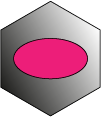
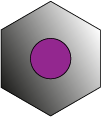
method in Player check if the lowest color is present

diff --git a/core/src/Screens/GameScreen.java b/core/src/Screens/GameScreen.java
@@ -83,6 +83,7 @@ public class GameScreen extends AbstractScreen implements GameHandler {
         tileView = new Group[players.length][];
         gamingPlayer = players[0];
 
+
     }
 
 
@@ -96,6 +97,7 @@ public class GameScreen extends AbstractScreen implements GameHandler {
         Stage stage  = new Stage();
         // ...
         updateBoard();
+
         updateHand();
 
 
@@ -198,11 +200,7 @@ public class GameScreen extends AbstractScreen implements GameHandler {
                 //get one of the six couple of sprites
                 Sprite[] oneOfSix = playerP.getGamePieces().get(i);
 
-                // Check if hand has any tiles of lowest color:
-                if (!Player.isLowestScoreTilePresent(playerP)){
-                    // add button to give new hand here
-                    System.out.println("change hand - no lowest score present");
-                }
+
 
                 //override call for each grid
                 tiles[i].getHexagons().forEach(new Action1<Hexagon<Link>>() {
@@ -222,7 +220,6 @@ public class GameScreen extends AbstractScreen implements GameHandler {
                         //and pass everything in tileGroup
                         tileGroup.addActor(hexTile);
                         hexagon.setSatelliteData(new Link(hexTile));
-
 
                         /*
                         Create a click listener for the tiles in your hand: --------------------------
@@ -290,7 +287,7 @@ public class GameScreen extends AbstractScreen implements GameHandler {
 
         // Create a HexagonActor for each Hexagon and attach it to the group
         this.hexagonView = new Group();
-
+      //  this.gbv = new GameBoardView();
         grid.getHexagons().forEach(new Action1<Hexagon<Link>>() {
             @Override
             public void call(Hexagon hexagon) {
@@ -378,19 +375,28 @@ public class GameScreen extends AbstractScreen implements GameHandler {
                                         ind++;
                                     }
                                 }
-
+                                ///////////////////////////////score update
                                 gamingPlayer.printScore();
-                                selectedTile.moveBy(0, -30);
 
+                                //little work around blips and bloops @Michael
+//                                if (gamingPlayer == players[0]) {
+                                   // selectedTile.moveBy(0, 30);
+//                                }
+//                                if(gamingPlayer==players[1]){
+                                       selectedTile.moveBy(0, -30);
+//                                }
+                                //end
                                 gamingPlayer = players[Math.abs(gamingPlayer.getPlayerNo() - 2)];
 
                                 // Check if hand has any tiles of lowest color:
-                                if (!Player.isLowestScoreTilePresent(gamingPlayer)){
+                                if (!gamingPlayer.isLowestScoreTilePresent()){
+                                    System.out.println("Change hand!");
                                     // add button to give new hand here
-                                    System.out.println("change hand");
+
                                 } else {
                                     System.out.println("Keep your hand!");
                                 }
+
 
 
                             }
@@ -414,14 +420,17 @@ public class GameScreen extends AbstractScreen implements GameHandler {
    }
     @Override
     public void render(float delta) {
-
+        // Clear screen
+        //Gdx.gl.glClearColor(0, 0, 0, 1);
         Gdx.gl.glClearColor(96/255f, 96/255f, 96/255f, 1);
         Gdx.gl.glClear(GL20.GL_COLOR_BUFFER_BIT);
         p1.updateText("Player 1 Score : "+ players[0].scoreToString());
         p2.updateText("Player 2 Score : "+players[1].scoreToString());
-
+       // gbv.draw(batch,delta);
+      //  gbv.act(delta);
+        // Calling to Stage methods
         super.act(delta);
-        super.draw();
+       super.draw();
     }
 
     public void dispose(){
@@ -434,12 +443,12 @@ public class GameScreen extends AbstractScreen implements GameHandler {
         Texture texture = hexActor.getSprite().getTexture();
         String path = ((FileTextureData)texture.getTextureData()).getFileHandle().path();
 
-        String purple = "colours/purple.png";
+        String violet = "colours/violet.png";
         String red =    "colours/red.png";
         String blue =   "colours/blue.png";
         String yellow = "colours/yellow.png";
         String orange = "colours/orange.png";
-        String violet = "colours/violet.png";
+        String purple = "colours/purple.png";
 
 
         if(path.equals(purple)){

diff --git a/core/src/com/game/Player.java b/core/src/com/game/Player.java
@@ -26,11 +26,11 @@ public class Player {
 
 /*
 int[0] = blue
-int[1] = violet
+int[1] = yellow
 int[2] = orange
 int[3] = purple
-int[4] = red
-int[5] = yellow
+int[4] = violet
+int[5] = red
 */
 
     int playerNo;
@@ -43,11 +43,15 @@ int[5] = yellow
             this.PlayerScore[i] = 0;
         }
         PlayerScoreSprite[0] = Constants.blueSprite;
-        PlayerScoreSprite[1] = Constants.violetSprite;
+        PlayerScoreSprite[1] = Constants.yellowSprite;
         PlayerScoreSprite[2] = Constants.orangeSprite;
         PlayerScoreSprite[3] = Constants.purpleSprite;
-        PlayerScoreSprite[4] = Constants.redSprite;
-        PlayerScoreSprite[5] = Constants.yellowSprite;
+        PlayerScoreSprite[4] = Constants.violetSprite;
+        PlayerScoreSprite[5] = Constants.redSprite;
+
+
+
+
     }
 
 
@@ -105,12 +109,41 @@ int[5] = yellow
         return PlayerScore;
     }
 
-    public int getPlayerScoreAtIndex(int index){
-        return PlayerScore[index];
+    private boolean isAColorPresent(Sprite color){
+        for (Sprite[] tile : playerPieces){
+            if(tile[0] == color || tile[1] == color){
+                return true;
+            }
+        }
+        return false;
+
     }
 
-    public Sprite getPlayerScoreSprite(int index){
-        return PlayerScoreSprite[index];
+    public boolean isLowestScoreTilePresent(){
+        int lowest = 18;
+        ArrayList<Integer> indexesOfLowest = new ArrayList<>();
+
+        for (int i = 0; i < 6; i++){
+            if(PlayerScore[i] < lowest){
+                lowest = PlayerScore[i];
+            }
+        }
+
+        for (int i = 0; i < 6; i++){
+            if (PlayerScore[i] == lowest){
+                indexesOfLowest.add(i);
+            }
+
+        }
+
+        for (int i : indexesOfLowest){
+            System.out.println(i);
+            if (!isAColorPresent(PlayerScoreSprite[i])){
+                return false;
+            }
+
+        }
+        return true;
     }
 
     public static Hexagon neighborByDirection(int d, Hexagon hexagon, HexagonalGrid hexagonalGrid){
@@ -223,20 +256,7 @@ int[5] = yellow
         return sums;
     }
 
-    public static boolean isLowestScoreTilePresent(Player player){
-        int lowest = 18;
-        for (int i = 0; i < 6; i++){
-            if(player.getPlayerScoreAtIndex(i) < lowest){
-                lowest = player.getPlayerScoreAtIndex(i);
-            }
-        }
-        for (Sprite[] sprite : player.getGamePieces()){
-            if (sprite[0] == player.getPlayerScoreSprite(lowest) || sprite[1] == player.getPlayerScoreSprite(lowest)){
-                return true;
-            }
-        }
-        return false;
-    }
+
 }
 
 

diff --git a/core/src/GameBoardAssets/GameBoardView.java b/core/src/GameBoardAssets/GameBoardView.java
@@ -60,8 +60,8 @@ public class GameBoardView extends GroupView {
                 Sprite corner1Sprite = new Sprite(new Texture(Gdx.files.internal("colours/blue.png")));
                 Sprite corner2Sprite = new Sprite(new Texture(Gdx.files.internal("colours/yellow.png")));
                 Sprite corner3Sprite = new Sprite(new Texture(Gdx.files.internal("colours/orange.png")));
-                Sprite corner4Sprite = new Sprite(new Texture(Gdx.files.internal("colours/purple.png")));
-                Sprite corner5Sprite = new Sprite(new Texture(Gdx.files.internal("colours/violet.png")));
+                Sprite corner4Sprite = new Sprite(new Texture(Gdx.files.internal("colours/violet.png")));
+                Sprite corner5Sprite = new Sprite(new Texture(Gdx.files.internal("colours/purple.png")));
                 Sprite corner6Sprite = new Sprite(new Texture(Gdx.files.internal("colours/red.png")));
 
                 //mainMenuButton = new Sprite(new Texture(Gdx.files.internal("MainMenu.png")));
@@ -187,12 +187,12 @@ public class GameBoardView extends GroupView {
                 Texture texture = hexActor.getSprite().getTexture();
                 String path = ((FileTextureData)texture.getTextureData()).getFileHandle().path();
 
-                String purple = "colours/purple.png";
+                String purple = "colours/violet.png";
                 String red =    "colours/red.png";
                 String blue =   "colours/blue.png";
                 String yellow = "colours/yellow.png";
                 String orange = "colours/orange.png";
-                String violet = "colours/violet.png";
+                String violet = "colours/purple.png";
 
 
                 if(path.equals(purple)){

diff --git a/core/src/GameConstants/Constants.java b/core/src/GameConstants/Constants.java
@@ -15,12 +15,15 @@ public class Constants {
 
     //Colors
     public static Sprite emptySprite = new Sprite(new Texture(Gdx.files.internal("4players.png")));
+
     public static Sprite blueSprite = new Sprite(new Texture(Gdx.files.internal("colours/blue.png")));
-    public static Sprite violetSprite = new Sprite(new Texture(Gdx.files.internal("colours/violet.png")));
+    public static Sprite yellowSprite = new Sprite(new Texture(Gdx.files.internal("colours/yellow.png")));
     public static Sprite orangeSprite = new Sprite(new Texture(Gdx.files.internal("colours/orange.png")));
+    public static Sprite violetSprite = new Sprite(new Texture(Gdx.files.internal("colours/violet.png")));
     public static Sprite purpleSprite = new Sprite(new Texture(Gdx.files.internal("colours/purple.png")));
     public static Sprite redSprite = new Sprite(new Texture(Gdx.files.internal("colours/red.png")));
-    public static Sprite yellowSprite = new Sprite(new Texture(Gdx.files.internal("colours/yellow.png")));
+
+
 
 
     // Board parameters

diff --git a/core/src/GameScoreAssets/ScoreBarGroup.java b/core/src/GameScoreAssets/ScoreBarGroup.java
@@ -40,8 +40,8 @@ create();
         colors[0] = Color.BLUE;
         colors[1] = Color.YELLOW;
         colors[2] = Color.ORANGE;
-        colors[3] = Color.VIOLET;
-        colors[4] = Color.PURPLE;
+        colors[3] = Color.PURPLE;
+        colors[4] = Color.VIOLET;
         colors[5] = Color.RED;
 //        colors[6] = Color.DARK_GRAY;
 
@@ -58,7 +58,6 @@ create();
 
             cl[i]=new CustomLabel(s, skin);
             cl[i].setColor(colors[i]);
-            System.out.println(w);
             bars[i] = new Bar(w,barH,colors[i],j);
             //bars[i].setBounds(w/2,barH/2,w,barH);
             //wrap bars
@@ -66,7 +65,6 @@ create();
             Container wrapper = new Container(bars[i]);
             wrapper.setTransform(true);
             wrapper.setWidth(bars[i].getWidth());
-            System.out.println(bars[i].getWidth());
             // wrapper.setHeight(height);
             wrapper.setOrigin(wrapper.getPrefWidth() / 2, wrapper.getPrefHeight() / 2);
             // wrapper.setRotation(30);
